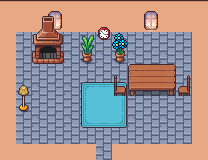
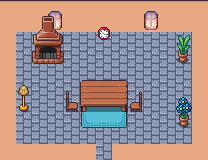
Fix home_g2 furniture: seat the table on its rug (placement polish)
The re-themed parlor placed its table and rug side-by-side (rug cols 5-7, table
cols 8-10), which stranded one chair on the rug's edge and shoved the table +
other chair against the right wall - the "AI placement needs work" the playtest
flagged. Every other room seats the table ON its rug with a chair flanking each
side (library, home_e1, home_a1); home_g2 now matches: table + two flanking
chairs centered on the teal rug, fireplace + lamp framing the left, plants in
the right corners.

home_g2 only (its map + ground PNG re-baked); the other seven interiors read
clean at 4x and are left untouched. Deterministic re-bake; check_symbols /
check_levels / gdformat / gdlint green.

Claude-Session: https://claude.ai/code/session_013Zs4bJfE7CpRqAcuBRrWLL

Changed region(s): [[0.3173, 0.2188, 0.9231, 0.8125], [0.375, 0.2188, 0.4615, 0.4062], [0.5192, 0.1875, 0.6346, 0.4062]]

diff --git a/tools/bake_interior.py b/tools/bake_interior.py
@@ -160,11 +160,11 @@ INTERIORS = {
         "furniture": [
             ("rug_teal", 5, 7),
             ("fireplace", 2, 3),
-            ("plant_leafy", 5, 3),
-            ("plant_blue", 7, 3),
-            ("table_dark", 8, 5),
-            ("chair_right", 7, 5),
-            ("chair_left", 11, 5),
+            ("plant_leafy", 11, 3),
+            ("table_dark", 5, 6),
+            ("chair_right", 4, 6),
+            ("chair_left", 8, 6),
+            ("plant_blue", 11, 7),
             ("lamp_gold", 1, 6),
             ("clock_wall", 6, 1),
         ],